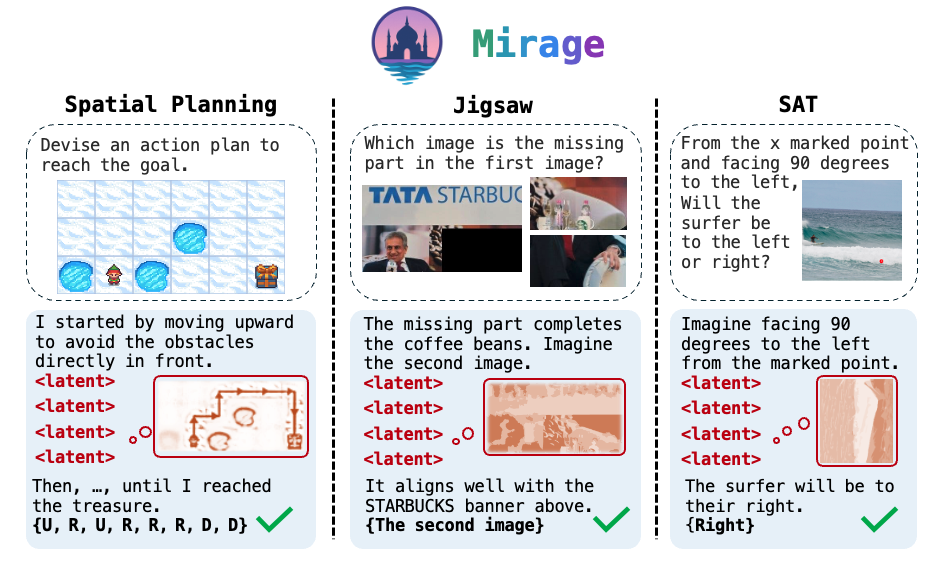
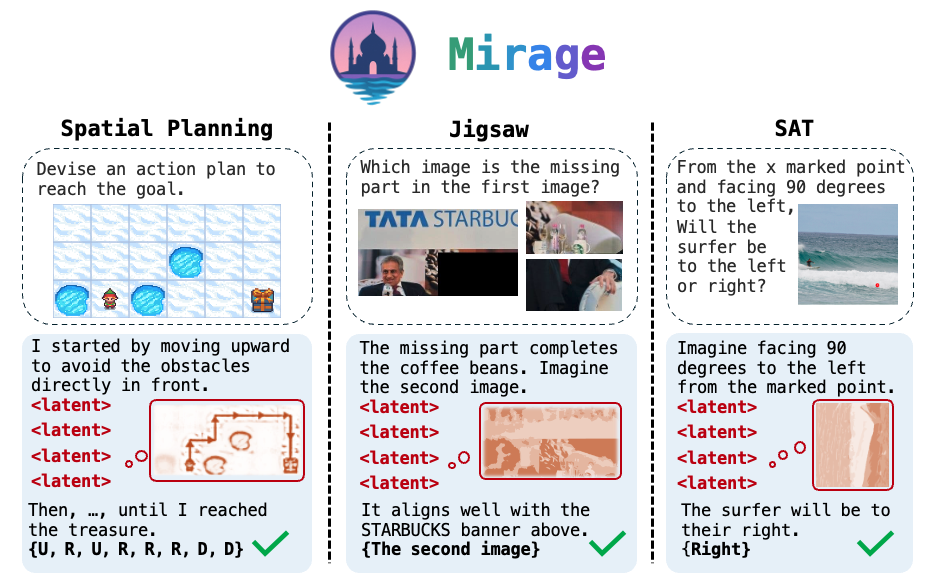
update readme

diff --git a/README.md b/README.md
@@ -21,7 +21,7 @@
 </p>
 
 
-We propose Mirage, **interleaving latent visual tokens**, which represent compact imagery visual features, with explicit text tokens to solve diverse spatial reasoning multimodal tasks, boosting the reasoning performance without the full pixel-level image generation.
+We propose **Mirage**, **interleaving latent visual tokens**, which represent compact imagery visual features, with explicit text tokens to solve diverse **multimodal reasoning** tasks, boosting the reasoning performance without the full pixel-level image generation.
 
 <p align="center">
     <img src="asset/teaser.png" alt="Logo" width="190%">
@@ -135,7 +135,7 @@ If you find our work useful, please consider citing:
 }
 ```
 
-## Acknowledgements
+## Acknowledgement
 We would like to thank the following works for their code and models:
 - Training: [Coconut](https://arxiv.org/abs/2412.06769), [Qwen](https://huggingface.co/Qwen) and [MVoT](https://arxiv.org/pdf/2501.07542)
 - Datasets: [VSP](https://arxiv.org/abs/2407.01863), [Blink](https://zeyofu.github.io/blink/), [COMT](https://arxiv.org/abs/2412.12932) and [SAT](https://arxiv.org/abs/2412.07755)
